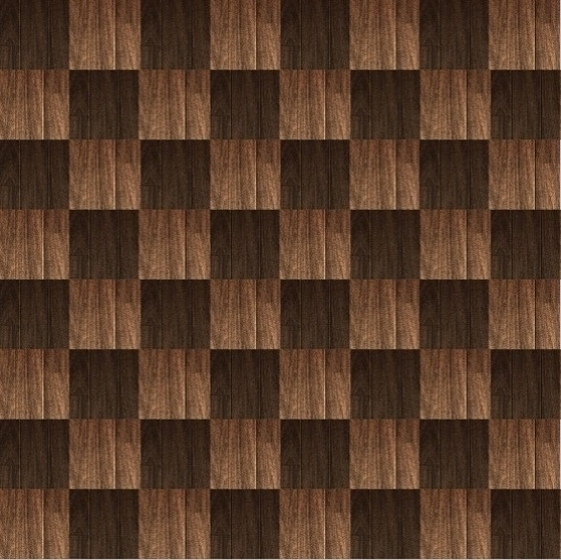
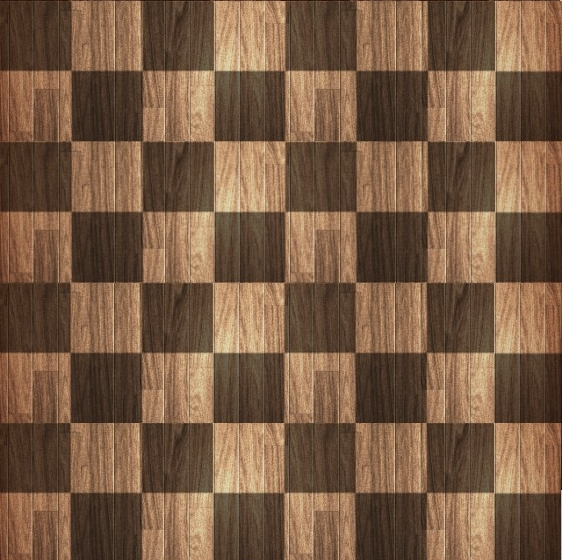
Update GUI

diff --git a/src/main/java/com/Grateds/Reversi/GUI/GameGraphicsPanel.java b/src/main/java/com/Grateds/Reversi/GUI/GameGraphicsPanel.java
@@ -47,9 +47,9 @@ public class GameGraphicsPanel extends JPanel implements MouseListener, Observer
     private void loadImages() {
         try {
         																				
-            boardImg = ImageIO.read(new File("img/skin_2/board.jpg"));
-            blackPieceImg = ImageIO.read(new File("img/skin_2/blackpiece.png"));
-            whitePieceImg = ImageIO.read(new File("img/skin_2/whitepiece.png"));
+            boardImg = ImageIO.read(new File("img/skin_1/board.jpg"));
+            blackPieceImg = ImageIO.read(new File("img/skin_1/blackpiece.png"));
+            whitePieceImg = ImageIO.read(new File("img/skin_1/whitepiece.png"));
         } catch (IOException e) {
             e.printStackTrace();
         }

diff --git a/src/main/java/com/Grateds/Reversi/GUI/gamePanel.java b/src/main/java/com/Grateds/Reversi/GUI/gamePanel.java
@@ -13,7 +13,7 @@ public class gamePanel extends JPanel{
 
     public gamePanel() {
         try {
-            background = ImageIO.read(new File("img/skin_2/background.jpg"));
+            background = ImageIO.read(new File("img/skin_1/background.jpg"));
         } catch(IOException e) {
             e.printStackTrace();
         }

diff --git a/src/main/java/com/Grateds/Reversi/GUI/MainWindow.java b/src/main/java/com/Grateds/Reversi/GUI/MainWindow.java
@@ -77,7 +77,6 @@ public class MainWindow extends javax.swing.JFrame implements Observer {
             	controller.initialization();
             	controller.drawBoard();
             	gameGraphicsPanel1.repaint();
-            	
             }
         });
 
